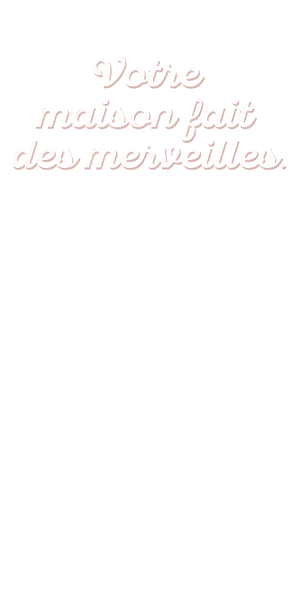
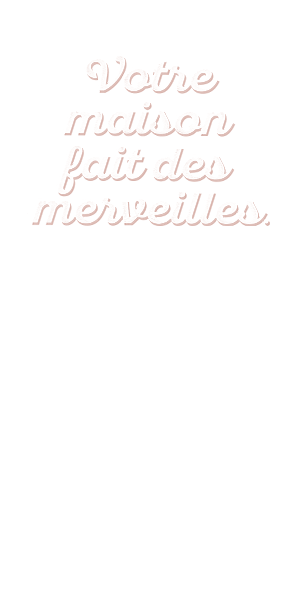
more alignment

Changed region(s): [[0.06, 0.09, 0.96, 0.39], [0.12, 0.33, 0.18, 0.39]]

diff --git a/CAM/cam_FR-FR/cam_300x250_fr-fr/Animation.js b/CAM/cam_FR-FR/cam_300x250_fr-fr/Animation.js
@@ -34,7 +34,7 @@ home_animation = (function() {
 	function init()
 	{
 		document.getElementById("container").style.display = "block";
-
+		
 
 		// CTA BTN CLICKTAG //
 			bind(document.getElementById('click_screen'), 'click', function(e) 
@@ -42,44 +42,31 @@ home_animation = (function() {
 				e.preventDefault();
 				Enabler.exit("clickTag1");
 			});
-	
-		//TweenLite.to(threeX, 0, {scaleX:2.5, scaleY:2.5});
-		//TweenLite.to(tool, 0, {scaleX:2.5, scaleY:2.5});
 
-		frame2();
+		frame1();
 
 	}
 	
-
-		
 	function frame1()
-	{
-		///TweenLite.to(first_text, 2.8, {top:-300, delay: 2.2});
-		//TweenLite.to(product_text, 2.8, {top:-24, delay:2.2});		
-		TweenLite.to(bg, 1, {top:-252, delay:2.2});		
-		TweenLite.delayedCall(1, frame2);
-	}
-	
-	function frame2()
 	{
 		// slide up white bg
 		TweenLite.to(first_text, 1.2, {opacity:0,top:-250, delay: 2});
-		TweenLite.to(product_text, 1, {top:14, delay:2});	
-		TweenLite.to(bg, 1, {top:-231, delay:2});	
-		TweenLite.to(white_BG, 1, {top:195, delay:2});
+		TweenLite.to(product_text, .8, {top:14, delay:2.1});	
+		TweenLite.to(bg, .9, {top:-231, delay:2});	
+		TweenLite.to(white_BG, .9, {top:190, delay:2});
 		TweenLite.to(second_text, 3, {opacity:1, delay:3, ease: Expo.easeOut});		
 		TweenLite.to(third_text, 5, {opacity:1, delay:4.6, ease: Expo.easeOut});
-		TweenLite.delayedCall(10, frame3);	
+		TweenLite.delayedCall(10, frame2);	
 	}
 	
-	function frame3()
+	function frame2()
 	{	
 		TweenLite.to(second_text, 0.5, {opacity:0, delay:0});		
 		TweenLite.to(third_text, 0.5, {opacity:0, delay:0});	
-		TweenLite.delayedCall(0.7, frame4);
+		TweenLite.delayedCall(0.7, frame3);
 	}
 	
-	function frame4()
+	function frame3()
 	{
 		endFrame = 1;
 		TweenLite.to(buy_now, 3, {opacity:1, delay:0.5});		

diff --git a/CAM/cam_NL-NL/cam_300x250_nl-nl/Animation.js b/CAM/cam_NL-NL/cam_300x250_nl-nl/Animation.js
@@ -34,7 +34,7 @@ home_animation = (function() {
 	function init()
 	{
 		document.getElementById("container").style.display = "block";
-
+		
 
 		// CTA BTN CLICKTAG //
 			bind(document.getElementById('click_screen'), 'click', function(e) 
@@ -42,6 +42,7 @@ home_animation = (function() {
 				e.preventDefault();
 				Enabler.exit("clickTag1");
 			});
+
 		frame1();
 
 	}
@@ -52,7 +53,7 @@ home_animation = (function() {
 		TweenLite.to(first_text, 1.2, {opacity:0,top:-250, delay: 2});
 		TweenLite.to(product_text, .8, {top:14, delay:2.1});	
 		TweenLite.to(bg, .9, {top:-231, delay:2});	
-		TweenLite.to(white_BG, .9, {top:195, delay:2});
+		TweenLite.to(white_BG, .9, {top:190, delay:2});
 		TweenLite.to(second_text, 3, {opacity:1, delay:3, ease: Expo.easeOut});		
 		TweenLite.to(third_text, 5, {opacity:1, delay:4.6, ease: Expo.easeOut});
 		TweenLite.delayedCall(10, frame2);	

diff --git a/CAM/cam_FR-CA/cam_300x250_fr-ca/Animation.js b/CAM/cam_FR-CA/cam_300x250_fr-ca/Animation.js
@@ -34,7 +34,7 @@ home_animation = (function() {
 	function init()
 	{
 		document.getElementById("container").style.display = "block";
-
+		
 
 		// CTA BTN CLICKTAG //
 			bind(document.getElementById('click_screen'), 'click', function(e) 
@@ -53,7 +53,7 @@ home_animation = (function() {
 		TweenLite.to(first_text, 1.2, {opacity:0,top:-250, delay: 2});
 		TweenLite.to(product_text, .8, {top:14, delay:2.1});	
 		TweenLite.to(bg, .9, {top:-231, delay:2});	
-		TweenLite.to(white_BG, .9, {top:195, delay:2});
+		TweenLite.to(white_BG, .9, {top:190, delay:2});
 		TweenLite.to(second_text, 3, {opacity:1, delay:3, ease: Expo.easeOut});		
 		TweenLite.to(third_text, 5, {opacity:1, delay:4.6, ease: Expo.easeOut});
 		TweenLite.delayedCall(10, frame2);	

diff --git a/CAM/cam_NL-NL/cam_300x250_nl-nl/style.css b/CAM/cam_NL-NL/cam_300x250_nl-nl/style.css
@@ -40,7 +40,7 @@ body{
 	position: absolute;
 	background-color: #fff;
 	width:100%;
-	height: 55px;
+	height: 60px;
 	top:350px;
 	z-index: -1;
 	
@@ -50,7 +50,7 @@ body{
 #first_text {
 position: absolute;
 left:0px;
-top:0px;
+top:5px;
 opacity: 1;
 z-index:0;
 }
@@ -69,12 +69,17 @@ top:0px;
 opacity: 0;
 z-index:1;
 }
-#third_text{
-	left: -2px;
-}
+
 #buy_now_over {
 opacity: 0;
-z-index:2;	
+z-index:2;
+top:-6px;
+position: absolute;	
 }
-
+#second_text, #third_text,#logo{
+	top: -4px;
+}
+#buy_now{
+	top: -3px;
+}
 

diff --git a/CAM/cam_FR-CA/cam_300x250_fr-ca/style.css b/CAM/cam_FR-CA/cam_300x250_fr-ca/style.css
@@ -40,7 +40,7 @@ body{
 	position: absolute;
 	background-color: #fff;
 	width:100%;
-	height: 55px;
+	height: 60px;
 	top:350px;
 	z-index: -1;
 	
@@ -50,7 +50,7 @@ body{
 #first_text {
 position: absolute;
 left:0px;
-top:0px;
+top:20px;
 opacity: 1;
 z-index:0;
 }
@@ -72,7 +72,13 @@ z-index:1;
 
 #buy_now_over {
 opacity: 0;
-z-index:2;	
+z-index:2;
+position: absolute;	
 }
-
+#second_text, #third_text,#logo{
+	top: -4px;
+}
+#buy_now, #buy_now_over{
+	top:-3px;
+}
 

diff --git a/CAM/cam_FR-FR/cam_300x250_fr-fr/style.css b/CAM/cam_FR-FR/cam_300x250_fr-fr/style.css
@@ -40,7 +40,7 @@ body{
 	position: absolute;
 	background-color: #fff;
 	width:100%;
-	height: 55px;
+	height: 60px;
 	top:350px;
 	z-index: -1;
 	
@@ -50,7 +50,7 @@ body{
 #first_text {
 position: absolute;
 left:0px;
-top:0px;
+top:20px;
 opacity: 1;
 z-index:0;
 }
@@ -72,7 +72,13 @@ z-index:1;
 
 #buy_now_over {
 opacity: 0;
-z-index:2;	
+z-index:2;
+position: absolute;	
 }
-
+#second_text, #third_text,#logo{
+	top: -4px;
+}
+#buy_now, #buy_now_over{
+	top:-3px;
+}
 

diff --git a/CAM/cam_NL-NL/cam_300x600_nl-nl/style.css b/CAM/cam_NL-NL/cam_300x600_nl-nl/style.css
@@ -49,7 +49,7 @@ body{
 #first_text {
 position: absolute;
 left:0px;
-top:0px;
+top:-15px;
 opacity: 1;
 z-index:0;
 }
@@ -73,4 +73,6 @@ z-index:1;
 opacity: 0;
 z-index:2;	
 }
-
+#second_text, #third_text{
+	top: -5px;
+}
